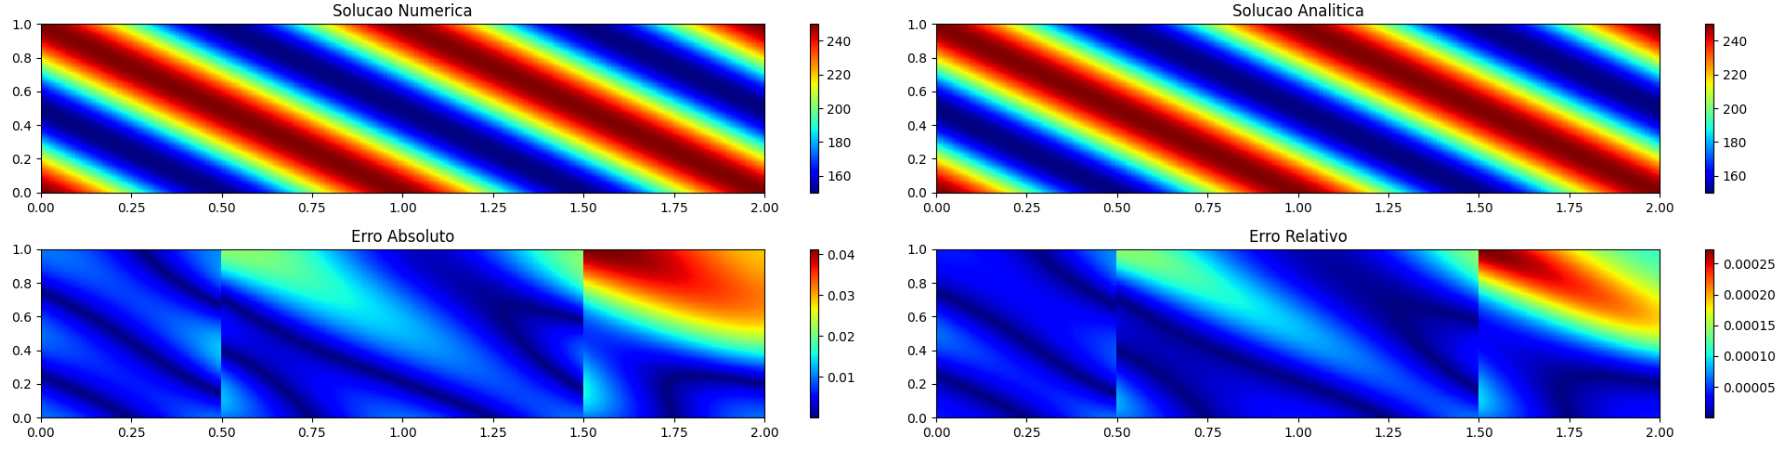
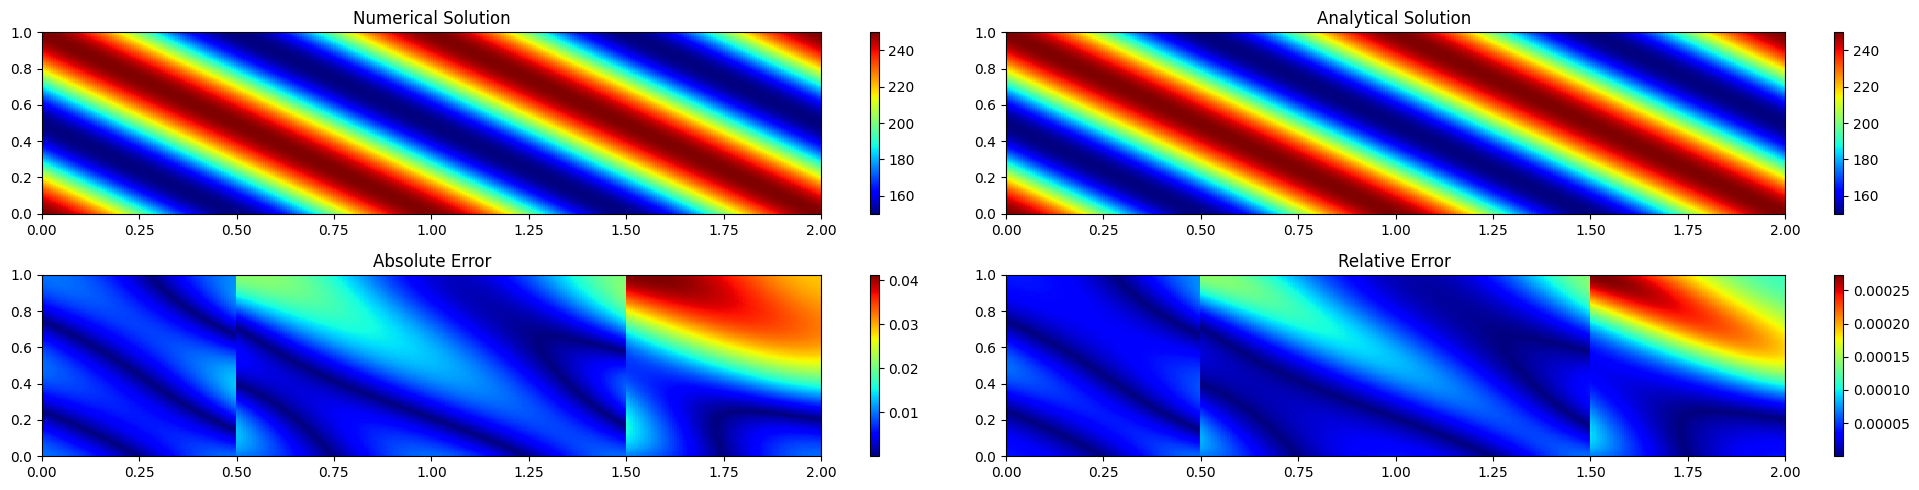
English figure titles and more result figures for FVM projects

diff --git a/_projects/fvm-poiseuille-heat-transfer.md b/_projects/fvm-poiseuille-heat-transfer.md
@@ -44,23 +44,41 @@ heating by **viscous dissipation**.
 The Péclet number compares heat carried by the flow (convection) with heat
 spread by conduction.
 
+### Pe = 1
+
 ![Temperature field, Pe = 1](/assets/img/projects/fvm-poiseuille-heat-transfer/temperature-pe1.png)
-*Pe = 1: conduction dominates. The fluid reaches the wall temperature within a few percent of the channel length.*
+*Conduction dominates. The fluid reaches the wall temperature within a few percent of the channel length.*
+
+![Temperature profiles across the channel, Pe = 1](/assets/img/projects/fvm-poiseuille-heat-transfer/profiles-pe1.png)
+*Temperature profiles at ten stations along the channel. Every station after the inlet is already at the wall temperature.*
+
+### Pe = 10
 
 ![Temperature field, Pe = 10](/assets/img/projects/fvm-poiseuille-heat-transfer/temperature-pe10.png)
-*Pe = 10: the thermal entrance region grows.*
+*The thermal entrance region grows.*
+
+![Temperature profiles across the channel, Pe = 10](/assets/img/projects/fvm-poiseuille-heat-transfer/profiles-pe10.png)
+*The centreline is still about 13 °C above the wall temperature at x/L ≈ 0.1.*
+
+### Pe = 100
 
 ![Temperature field, Pe = 100](/assets/img/projects/fvm-poiseuille-heat-transfer/temperature-pe100.png)
-*Pe = 100: convection dominates. Hot fluid persists along the centreline over most of the channel.*
+*Convection dominates. Hot fluid persists along the centreline over most of the channel.*
 
 ![Temperature profiles across the channel, Pe = 100](/assets/img/projects/fvm-poiseuille-heat-transfer/profiles-pe100.png)
-*Temperature profiles across the channel at several stations, Pe = 100. The near-uniform inlet profile develops into a parabolic shape as the thermal boundary layers merge.*
+*The near-uniform inlet profile develops into a parabolic shape as the thermal boundary layers merge.*
 
 ## Viscous dissipation
 
 With a non-zero **Brinkman number**, friction in the fluid adds heat,
-mostly near the walls where the shear is highest. Comparing Br = 0 with
-Br > 0 shows how much this extra heating changes the temperature field.
+mostly near the walls where the shear is highest. The solver can switch
+this source term on and off. The case below has it switched off (Br = 0).
+
+![Temperature field, Br = 0](/assets/img/projects/fvm-poiseuille-heat-transfer/temperature-br0.png)
+*Temperature field with viscous dissipation switched off (Br = 0).*
+
+![Temperature profiles across the channel, Br = 0](/assets/img/projects/fvm-poiseuille-heat-transfer/profiles-br0.png)
+*Temperature profiles along the channel for Br = 0.*
 
 ## What I learned
 

diff --git a/_projects/fvm-2d-diffusion-solver.md b/_projects/fvm-2d-diffusion-solver.md
@@ -55,6 +55,21 @@ reproduced the manufactured field with a **mean absolute error of about
 6 × 10⁻⁵** (mean relative error ≈ 3 × 10⁻⁷). The error maps in the figure
 above show where the remaining discretisation error sits.
 
+## Results for each linear solver
+
+Each solver produced the same four-panel output: numerical solution,
+analytical (manufactured) solution, and the absolute and relative error
+between them. Note the different colour scales of the error maps.
+
+![Direct solver results](/assets/img/projects/fvm-2d-diffusion-solver/mms-direct-solution.png)
+*Direct solver (`numpy.linalg.solve`).*
+
+![Gauss–Seidel results](/assets/img/projects/fvm-2d-diffusion-solver/mms-gauss-seidel-solution.png)
+*Gauss–Seidel, converged to a residual of 10⁻⁸.*
+
+![SOR results](/assets/img/projects/fvm-2d-diffusion-solver/mms-sor-solution.png)
+*Gauss–Seidel with SOR (optimal relaxation factor ω ≈ 1.98), converged to a residual of 10⁻⁸.*
+
 ## Findings
 
 The full comparison of the three solvers (accuracy, time, memory and
